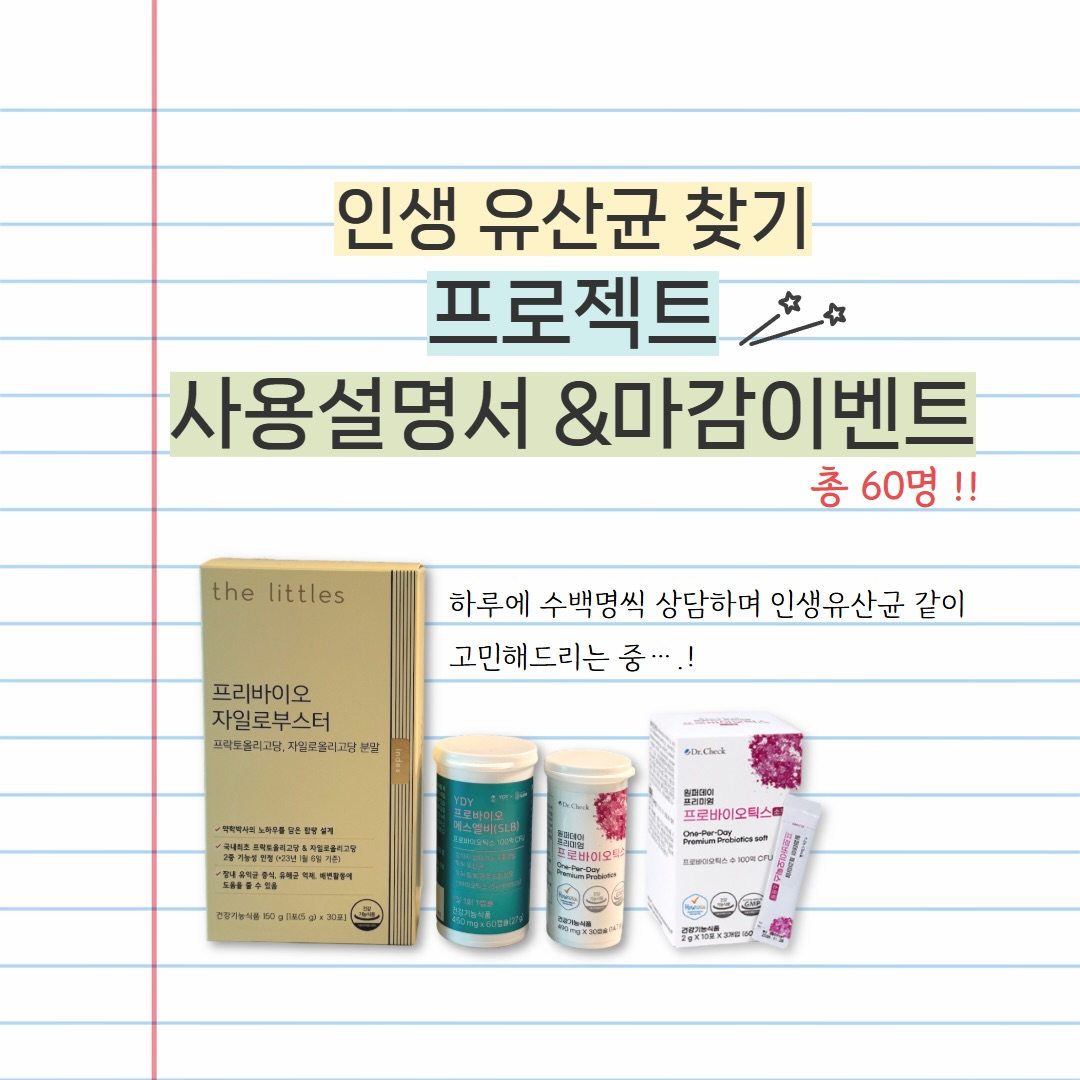
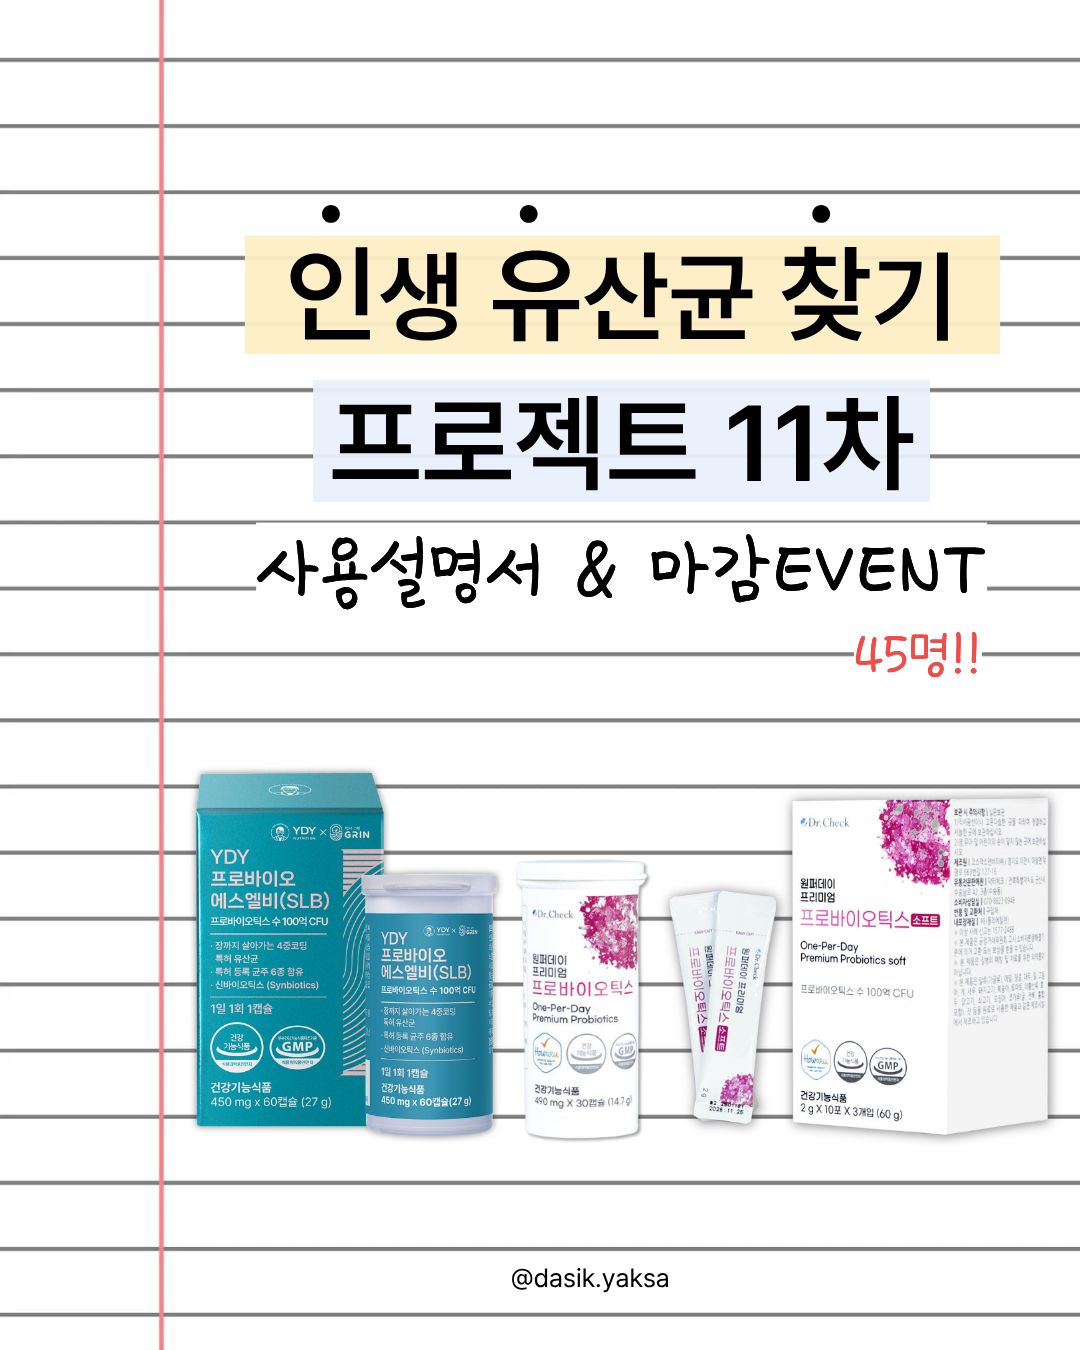
[자동] 노랑이 마감이벤트 링크·썸네일 업데이트

diff --git a/data.js b/data.js
@@ -369,7 +369,7 @@ const DATA = {
       items: [
         { name: "분홍이",    tags: ["유산균", "프로바이오틱스", "장건강"], thumbnail: "images/products/prod_pink.jpg",             link: "https://www.instagram.com/p/DYTN9hMmBq5/" },
         { name: "초록이",    tags: ["유산균", "프리바이오틱스"],           thumbnail: "images/products/prod_green.jpg",             link: "https://www.instagram.com/p/DYTN9hMmBq5/" },
-        { name: "노랑이",    tags: ["유산균", "장건강"],                   thumbnail: "images/products/prod_yellow.jpg",             link: "https://www.instagram.com/p/DVR9gqzk5qe/" },
+        { name: "노랑이",    tags: ["유산균", "장건강"],                   thumbnail: "images/products/prod_yellow.jpg",             link: "https://www.instagram.com/p/DYTN9hMmBq5/" },
         { name: "여성유산균", tags: ["유산균", "질유산균", "여성건강"],   thumbnail: "images/products/prod_femlab.jpg",            link: "https://www.instagram.com/p/DWIPE6ijweB/" }
       ]
     },